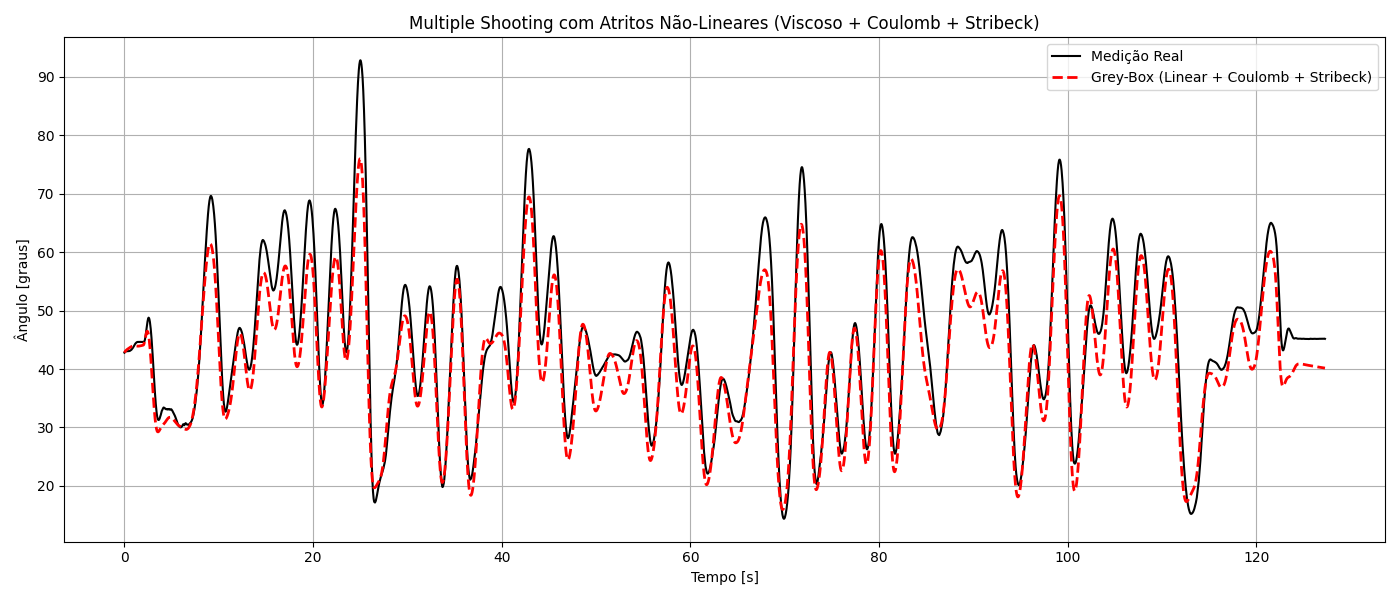
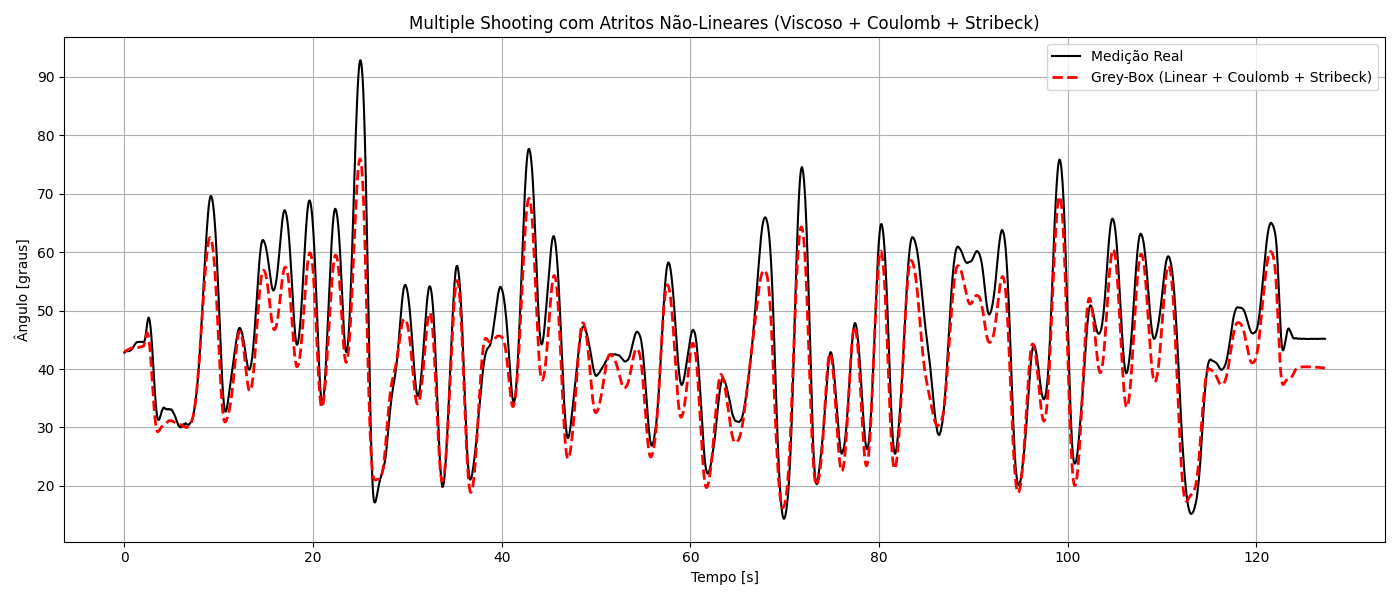
att

diff --git a/sysid/notebooks/identificação-collab/IDENT-FELIPE/ident_greybox_prof_multi.py b/sysid/notebooks/identificação-collab/IDENT-FELIPE/ident_greybox_prof_multi.py
@@ -1,0 +1,330 @@
+"""
+Identificação grey-box multi-experimento (modelo do professor) + validação free-run.
+
+    theta'' = c1*sin(theta) + c2*theta' + c3*u|u| + Fa_NL(theta')
+    Fa_NL   = -(Fc + Fs*exp(-(theta'/vs)^2)) * tanh(50*theta')
+
+Compara dois modos:
+  - "c3 fixo" : c3 = -k*c1, com k = c3/|c1| vindo da curva semiestática (escada)
+  - "c3 livre": c3 é variável de decisão (opcionalmente regularizada em torno de k)
+
+Treino: multiple shooting com parâmetros compartilhados entre vários ensaios.
+Validação: simulação livre (free-run, só u medido + condição inicial) em ensaios não vistos.
+"""
+import os
+import sys
+import time
+import numpy as np
+import casadi as cs
+import matplotlib.pyplot as plt
+
+current_dir = os.path.dirname(os.path.abspath(__file__)) if '__file__' in locals() else os.getcwd()
+root_dir = os.path.abspath(os.path.join(current_dir, '..', '..', '..', '..'))
+for p in (root_dir, current_dir):
+    if p not in sys.path:
+        sys.path.append(p)
+
+from aerodata import readData
+from ident_greybox_prof import extract_static_gain, C_g
+
+# =============================================================================
+# Configuração dos ensaios (somente RODADA-7, DC 45 e DC 60, malha fechada)
+# (arquivo, corte_inicial [s], corte_final [s])
+# Fora: MIX_DC_*.csv (concatenação dos mesmos ensaios) e degraus_0905 (buraco de 10 s no tempo)
+# =============================================================================
+R7 = "data/coletas/RODADA-7_20260904/"
+TR = (10.0, 13.0)
+
+# Treino: 1 ensaio de cada tipo por DC
+TRAIN = [(R7 + f, *TR) for f in [
+    "aprbs-45-1_0904_19-54.csv",
+    "chirp-45-amp35_0904_20-13.csv",
+    "multi-seno-45-040Hz_0904_20-26.csv",
+    "seq-degraus-45-1_0904_20-41.csv",
+    "aprbs-60-1_0904_20-04.csv",
+    "chirp-60-amp50_0904_20-18.csv",
+    "multi-seno-60-040Hz_0904_20-35.csv",
+    "seq-degraus-60-1_0904_20-51.csv",
+]]
+
+# Validação free-run: todo o resto da RODADA-7
+VAL = [(R7 + f, *TR) for f in [
+    "aprbs-45-2_0904_19-57.csv",
+    "aprbs-45-3_0904_20-01.csv",
+    "chirp-45-amp25_0904_20-11.csv",
+    "chirp-45-amp45_0904_20-15.csv",
+    "multi-seno-45-030Hz_0904_20-23.csv",
+    "multi-seno-45-030Hz_0905_00-47.csv",
+    "multi-seno-45-050Hz_0904_20-29.csv",
+    "seq-degraus-45-2_0904_20-45.csv",
+    "seq-degraus-45-3_0904_20-48.csv",
+    "aprbs-60-2_0904_20-07.csv",
+    "aprbs-60-3_0904_20-10.csv",
+    "chirp-60-amp40_0904_20-16.csv",
+    "chirp-60-amp60_0904_20-20.csv",
+    "multi-seno-60-030Hz_0904_20-32.csv",
+    "multi-seno-60-050Hz_0904_20-38.csv",
+    "seq-degraus-60-2_0904_20-54.csv",
+    "seq-degraus-60-3_0904_20-57.csv",
+]]
+
+DECIM = 2          # 2 = 50 Hz (1 = 100 Hz)
+LAMBDA_C3 = 0.0    # peso da regularização de c3 livre em torno de k estático (0 = totalmente livre)
+
+# Janela do multiple shooting [s]. Cada janela começa com estado livre (sem continuidade entre
+# janelas). Necessário porque acima de 90° a planta é instável em malha aberta (DC 60 chega a
+# ~150°): simular 130 s seguidos com o u de malha fechada diverge e o IPOPT não converge.
+# None = horizonte inteiro (comportamento antigo).
+SEG_LEN = 5.0
+
+# Escalas das variáveis de decisão (valores físicos = escala * variável ~ 1)
+S_C1, S_C2, S_F, S_C3 = 8.0, 0.4, 0.15, 2.5e-3
+
+
+# =============================================================================
+# Modelo e integrador (CasADi)
+# =============================================================================
+def build_rk4():
+    x = cs.SX.sym('x', 2)
+    u = cs.SX.sym('u')
+    th = cs.SX.sym('th', 6)   # [c1, c2, c3, Fc, Fs, vs]
+    h = cs.SX.sym('h')
+
+    def f(x_, u_):
+        v = x_[1]
+        fric_nl = -(th[3] + th[4] * cs.exp(-(v / th[5])**2)) * cs.tanh(50 * v)
+        acc = th[0] * cs.sin(x_[0]) + th[1] * v + th[2] * u_ * cs.fabs(u_) + fric_nl
+        return cs.vertcat(v, acc)
+
+    k1 = f(x, u)
+    k2 = f(x + h / 2 * k1, u)
+    k3 = f(x + h / 2 * k2, u)
+    k4 = f(x + h * k3, u)
+    x_next = x + h / 6 * (k1 + 2 * k2 + 2 * k3 + k4)
+    return cs.Function('rk4', [x, u, th, h], [x_next])
+
+
+RK4 = build_rk4()
+
+
+def free_run(theta, exp):
+    """Simulação livre: só u medido + condição inicial (y0, v0)."""
+    N = len(exp['y'])
+    sim = RK4.mapaccum('sim', N - 1)
+    x0 = cs.DM([exp['y'][0], exp['v0']])
+    th = cs.repmat(cs.DM(theta), 1, N - 1)
+    X = np.array(sim(x0, cs.DM(exp['u'][:-1]).T, th, exp['dt']))
+    return np.r_[exp['y'][0], X[0, :]]
+
+
+def segments(N, dt, seg_len):
+    """Lista de (início, fim) das janelas."""
+    if seg_len is None:
+        return [(0, N)]
+    L = max(int(round(seg_len / dt)), 2)
+    return [(s, min(s + L, N)) for s in range(0, N - 1, L)]
+
+
+def windowed_run(theta, exp, seg_len):
+    """Simulação por janelas: reinicia em cada janela a partir de (y medido, v estimado)."""
+    y_hat = np.empty_like(exp['y'])
+    for s, e in segments(len(exp['y']), exp['dt'], seg_len):
+        n = e - s
+        y_hat[s] = exp['y'][s]
+        if n < 2:
+            continue
+        sim = RK4.mapaccum('sim', n - 1)
+        x0 = cs.DM([exp['y'][s], exp['v'][s]])
+        X = np.array(sim(x0, cs.DM(exp['u'][s:e - 1]).T, cs.repmat(cs.DM(theta), 1, n - 1), exp['dt']))
+        y_hat[s + 1:e] = X[0, :]
+    return y_hat
+
+
+# =============================================================================
+# Dados
+# =============================================================================
+def load_exp(path, trim_start, trim_end):
+    y_deg, u, t = readData(dataset_name=path, decimar=DECIM)
+    i0 = np.searchsorted(t, t[0] + trim_start)
+    i1 = np.searchsorted(t, t[-1] - trim_end) if trim_end > 0 else len(t)
+    y = np.deg2rad(y_deg[i0:i1])
+    t = t[i0:i1] - t[i0]
+    dt = float(np.mean(np.diff(t)))
+    v0 = (y[1] - y[0]) / dt
+    # velocidade estimada (média móvel de 5 amostras + diferença central) p/ início das janelas
+    v = np.gradient(np.convolve(y, np.ones(5) / 5, mode='same'), dt)
+    v[:3], v[-3:] = np.gradient(y, dt)[:3], np.gradient(y, dt)[-3:]
+    base = os.path.basename(path).rsplit('_', 2)        # [nome, MMDD, HH-MM]
+    name = base[0] if base[1] == '0904' else f"{base[0]} ({base[1]})"
+    return dict(name=name, y=y, u=u[i0:i1].astype(float), t=t, dt=dt, v0=v0, v=v)
+
+
+def fit_pct(y, yhat):
+    return 100.0 * (1 - np.linalg.norm(y - yhat) / np.linalg.norm(y - np.mean(y)))
+
+
+def rmse_deg(y, yhat):
+    return float(np.rad2deg(np.sqrt(np.mean((y - yhat)**2))))
+
+
+# =============================================================================
+# Identificação multi-experimento
+# =============================================================================
+def identify(train, k_static, c3_free, lam=0.0):
+    opti = cs.Opti()
+    p1, p2, p3, p4, vs = [opti.variable() for _ in range(5)]
+    c1 = -S_C1 * p1
+    c2 = -S_C2 * p2
+    Fc = S_F * p3
+    Fs = S_F * p4
+
+    opti.subject_to(opti.bounded(0.175, p1, 3.5))
+    opti.subject_to(opti.bounded(0.0, p2, 12.0))
+    opti.subject_to(opti.bounded(0.0, p3, 6.0))
+    opti.subject_to(opti.bounded(0.0, p4, 6.0))
+    opti.subject_to(opti.bounded(0.1, vs, 5.0))
+
+    c1_init = -C_g / 0.035
+    opti.set_initial(p1, -c1_init / S_C1)
+    opti.set_initial(p2, (0.016 / 0.035) / S_C2)
+    opti.set_initial(p3, (0.005 / 0.035) / S_F)
+    opti.set_initial(p4, (0.005 / 0.035) / S_F)
+    opti.set_initial(vs, 0.5)
+
+    if c3_free:
+        p5 = opti.variable()
+        c3 = S_C3 * p5
+        opti.subject_to(opti.bounded(0.05, p5, 20.0))
+        opti.set_initial(p5, (-k_static * c1_init) / S_C3)
+    else:
+        c3 = -k_static * c1
+
+    theta = cs.vertcat(c1, c2, c3, Fc, Fs, vs)
+
+    cost = 0
+    for exp in train:
+        N = len(exp['y'])
+        X = opti.variable(2, N)
+        opti.set_initial(X[0, :], exp['y'])
+        opti.set_initial(X[1, :], exp['v'])
+        segs = segments(N, exp['dt'], SEG_LEN)
+        if SEG_LEN is None:
+            opti.subject_to(X[0, 0] == exp['y'][0])
+            opti.subject_to(X[1, 0] == exp['v0'])
+        # continuidade só DENTRO de cada janela (início de janela = estado livre)
+        starts = {s for s, _ in segs}
+        idx = [k for k in range(N - 1) if (k + 1) not in starts]
+        Xn = RK4.map(N - 1)(X[:, :-1], cs.DM(exp['u'][:-1]).T, cs.repmat(theta, 1, N - 1), exp['dt'])
+        opti.subject_to(X[:, [k + 1 for k in idx]] == Xn[:, idx])
+        cost += cs.sumsqr(X[0, :] - cs.DM(exp['y']).T)
+
+    if c3_free and lam > 0:
+        cost += lam * ((c3 / (-c1)) / k_static - 1)**2
+
+    opti.minimize(cost)
+    opti.solver("ipopt", {"expand": True},
+                {"max_iter": 500, "max_cpu_time": 600.0, "max_wall_time": 600.0, "print_level": 3,
+                 "tol": 1e-4, "hessian_approximation": "limited-memory"})
+
+    t0 = time.time()
+    try:
+        sol = opti.solve()
+        val = sol.value
+    except Exception:
+        print("  ! IPOPT não convergiu, usando a última iteração.")
+        val = opti.debug.value
+    th = np.array(val(theta)).flatten()
+    print(f"  tempo de otimização: {time.time() - t0:.1f} s | custo = {float(val(cost)):.3f}")
+    return th
+
+
+def print_params(label, th, k_static):
+    c1, c2, c3, Fc, Fs, vs = th
+    J = -C_g / c1
+    print(f"\n[{label}]")
+    print(f"  c1 = {c1:.5f} | c2 = {c2:.5f} | c3 = {c3:.5e}")
+    print(f"  Fc = {Fc:.5f} | Fs = {Fs:.5f} | vs = {vs:.4f} rad/s")
+    print(f"  k_dyn = c3/|c1| = {c3 / abs(c1):.4e}  (k estático = {k_static:.4e}, razão = {c3 / abs(c1) / k_static:.3f})")
+    print(f"  J = {J:.5f} kg.m^2 | b = {-c2 * J:.5f} N.m.s/rad | Ktau = {c3 * J:.4e}")
+
+
+def plot_group(exps, sims, metrics, title, fname):
+    n = len(exps)
+    fig, axes = plt.subplots(n, 1, figsize=(14, 2.8 * n), squeeze=False)
+    colors = {'c3 fixo': 'tab:blue', 'c3 livre': 'tab:red'}
+    for i, exp in enumerate(exps):
+        ax = axes[i, 0]
+        ax.plot(exp['t'], np.rad2deg(exp['y']), 'k', lw=1.2, label='Medição')
+        txt = []
+        for mode, ys in sims.items():
+            ax.plot(exp['t'], np.rad2deg(ys[i]), '--', color=colors[mode], lw=1.3, label=mode)
+            txt.append(f"{mode}: FIT={metrics[mode][i][0]:.1f}%")
+        ax.set_title(f"{exp['name']}  |  " + "  |  ".join(txt), fontsize=10)
+        ax.set_ylabel('θ [°]')
+        y_deg = np.rad2deg(exp['y'])
+        ax.set_ylim(y_deg.min() - 30, y_deg.max() + 30)   # simulações divergentes não estragam a escala
+        ax.grid(True)
+        if i == 0:
+            ax.legend(loc='upper right', fontsize=8)
+    axes[-1, 0].set_xlabel('Tempo [s]')
+    fig.suptitle(title, fontsize=13)
+    fig.tight_layout()
+    fig.savefig(os.path.join(current_dir, fname), dpi=110)
+    plt.close(fig)
+    print(f"Gráfico salvo em: {fname}")
+
+
+# =============================================================================
+if __name__ == "__main__":
+    k_static = extract_static_gain()
+
+    print("\n--- Carregando ensaios ---")
+    train = [load_exp(*e) for e in TRAIN]
+    val = [load_exp(*e) for e in VAL]
+    print(f"Treino: {sum(len(e['y']) for e in train)} amostras em {len(train)} ensaios | "
+          f"Validação: {len(val)} ensaios")
+
+    thetas = {}
+    for mode, free in (("c3 fixo", False), ("c3 livre", True)):
+        print(f"\n--- Otimização multi-experimento: {mode} ---")
+        thetas[mode] = identify(train, k_static, c3_free=free, lam=LAMBDA_C3)
+
+    for mode, th in thetas.items():
+        print_params(mode, th, k_static)
+
+    results = {}
+    sim_kinds = (("freerun", "Free-run", lambda th, e: free_run(th, e)),
+                 ("janela", f"Simulação em janelas de {SEG_LEN:g} s", lambda th, e: windowed_run(th, e, SEG_LEN)))
+    for group_name, exps in (("TREINO", train), ("VALIDAÇÃO", val)):
+        for kind, kind_label, fn in sim_kinds:
+            with np.errstate(all='ignore'):
+                sims = {m: [fn(th, e) for e in exps] for m, th in thetas.items()}
+                metrics = {m: [(fit_pct(e['y'], s), rmse_deg(e['y'], s)) for e, s in zip(exps, sims[m])]
+                           for m in thetas}
+            results[(group_name, kind)] = (exps, sims, metrics, kind_label)
+
+            print(f"\n=== {kind_label} — {group_name} (FIT % / RMSE °) ===")
+            header = f"{'ensaio':28s}" + "".join(f"{m:>22s}" for m in thetas)
+            print(header)
+            for i, e in enumerate(exps):
+                row = f"{e['name']:28s}" + "".join(
+                    f"{metrics[m][i][0]:12.1f}% / {metrics[m][i][1]:5.2f}°" for m in thetas)
+                print(row)
+            print(f"{'MÉDIA':28s}" + "".join(
+                f"{np.mean([x[0] for x in metrics[m]]):12.1f}% / {np.mean([x[1] for x in metrics[m]]):5.2f}°"
+                for m in thetas))
+            print(f"{'MEDIANA':28s}" + "".join(
+                f"{np.median([x[0] for x in metrics[m]]):12.1f}% / {np.median([x[1] for x in metrics[m]]):5.2f}°"
+                for m in thetas))
+
+    # Gráficos separados por grupo, tipo de simulação e DC (45 / 60)
+    for (group_name, kind), (exps, sims, metrics, kind_label) in results.items():
+        tag = "treino" if group_name == "TREINO" else "validacao"
+        for dc in ("45", "60"):
+            idx = [i for i, e in enumerate(exps) if f"-{dc}-" in e['name']]
+            if not idx:
+                continue
+            plot_group([exps[i] for i in idx],
+                       {m: [s[i] for i in idx] for m, s in sims.items()},
+                       {m: [x[i] for i in idx] for m, x in metrics.items()},
+                       f"{kind_label} — {group_name} — DC {dc}", f"multi_{tag}_dc{dc}_{kind}.png")

diff --git a/sysid/notebooks/identificação-collab/IDENT-FELIPE/ident_greybox_prof.py b/sysid/notebooks/identificação-collab/IDENT-FELIPE/ident_greybox_prof.py
@@ -186,26 +186,36 @@ def run_dynamic_optimization(k_static):
     X = opti.variable(2, N)
     
     # --- Parâmetros a Descobrir (forma em aceleração, rad/s^2) ---
-    c1 = opti.variable() # c1 = -Cg/J   (gravidade)
-    c2 = opti.variable() # c2 = -b/J    (atrito viscoso linear)
-    Fc = opti.variable() # Coulomb em rad/s^2
-    Fs = opti.variable() # Pico Stribeck em rad/s^2
-    vs = opti.variable() # Velocidade crítica do Stribeck
+    # Variáveis de otimização normalizadas (~1) para o IPOPT; valores físicos = escala * variável
+    s_c1, s_c2, s_f = 8.0, 0.4, 0.15
+    p1 = opti.variable() # c1 = -s_c1*p1   (c1 = -Cg/J, gravidade)
+    p2 = opti.variable() # c2 = -s_c2*p2   (c2 = -b/J, atrito viscoso linear)
+    p3 = opti.variable() # Fc = s_f*p3     (Coulomb em rad/s^2)
+    p4 = opti.variable() # Fs = s_f*p4     (pico Stribeck em rad/s^2)
+    vs = opti.variable() # Velocidade crítica do Stribeck [rad/s]
+    c1 = -s_c1 * p1
+    c2 = -s_c2 * p2
+    Fc = s_f * p3
+    Fs = s_f * p4
     c3 = -k_static * c1  # c3 = Ktau/J, preso à curva semiestática (c3/|c1| = k)
     
-    # Limites
-    opti.subject_to(opti.bounded(-40.0, c1, -0.5))
-    opti.subject_to(opti.bounded(-20.0, c2, 0.0))
-    opti.subject_to(opti.bounded(0.0, Fc, 5.0))
-    opti.subject_to(opti.bounded(0.0, Fs, 5.0))
-    opti.subject_to(opti.bounded(0.01, vs, 5.0))
+    # Limites (c1 em [-28,-1.4] equivale a J em [0.01, 0.2] kg.m^2 com Cg físico)
+    opti.subject_to(opti.bounded(0.175, p1, 3.5))
+    opti.subject_to(opti.bounded(0.0, p2, 12.0))
+    opti.subject_to(opti.bounded(0.0, p3, 6.0))
+    opti.subject_to(opti.bounded(0.0, p4, 6.0))
+    opti.subject_to(opti.bounded(0.1, vs, 5.0))
     
     # Chutes Iniciais (J~0.035: c1=-Cg/J, c2=-b/J, Fc/J...)
-    opti.set_initial(c1, -C_g / 0.035)
-    opti.set_initial(c2, -0.016 / 0.035)
-    opti.set_initial(Fc, 0.005 / 0.035)
-    opti.set_initial(Fs, 0.005 / 0.035)
+    opti.set_initial(p1, (C_g / 0.035) / s_c1)
+    opti.set_initial(p2, (0.016 / 0.035) / s_c2)
+    opti.set_initial(p3, (0.005 / 0.035) / s_f)
+    opti.set_initial(p4, (0.005 / 0.035) / s_f)
     opti.set_initial(vs, 0.5)
+    
+    # Warm start dos estados (multiple shooting): ângulo medido e velocidade por diferenças finitas
+    opti.set_initial(X[0, :], y_meas)
+    opti.set_initial(X[1, :], np.gradient(y_meas, dt))
     
     # Condição inicial
     opti.subject_to(X[0, 0] == y_meas[0])
@@ -235,7 +245,7 @@ def run_dynamic_optimization(k_static):
     
     # Configura o IPOPT
     p_opts = {"expand": True}
-    s_opts = {"max_iter": 500, "print_level": 5, "tol": 1e-4, "hessian_approximation": "limited-memory"}
+    s_opts = {"max_iter": 500, "max_cpu_time": 300.0, "print_level": 5, "tol": 1e-4, "hessian_approximation": "limited-memory"}
     opti.solver("ipopt", p_opts, s_opts)
     
     print("Iniciando otimização do IPOPT...")
